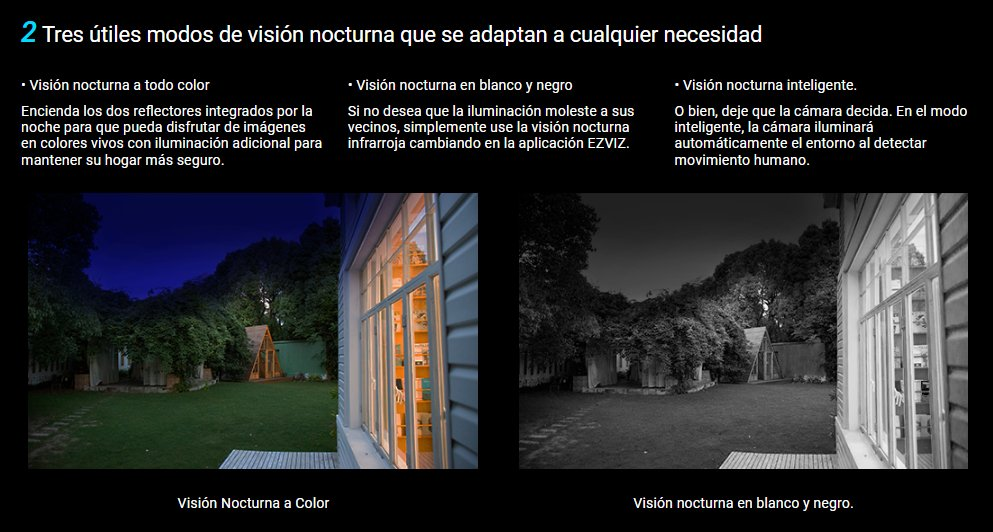
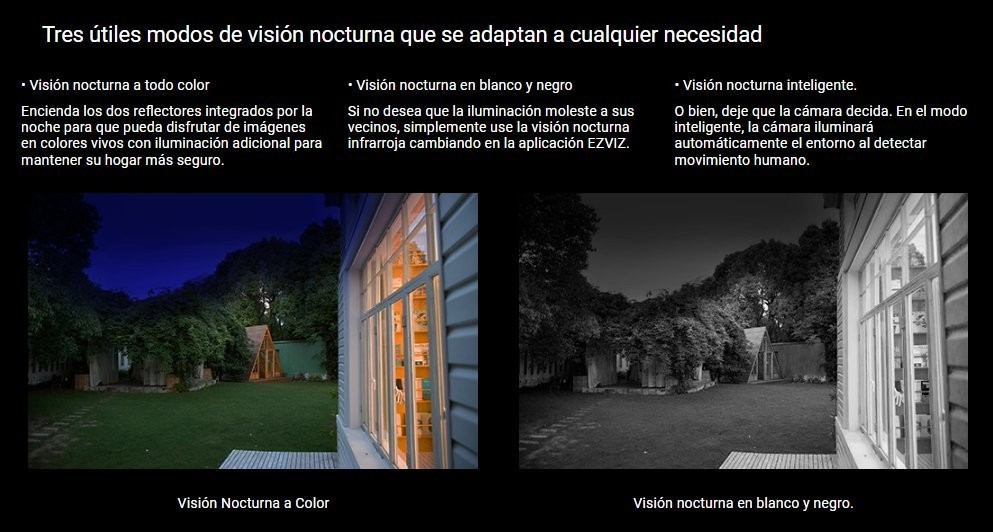
Add HiLook mini camera, CCTV accessories, second DVR, and fix nightvision image
- New "Accesorios CCTV" category: video balun, 12V power supply, male/
  female DC connectors, and a weatherproof junction box (TECLAM)
- New camera: HiLook THC-B127-LPTS 2MP mini tube with two-way audio,
  with its own ficha técnica listing the accessories above
- New DVR: Hikvision AcuSense 16-channel 4K (iDS-7216HUHI-M2/XT)
- Price added for WD Purple 1TB
- Removed the leftover blue "2" slide-number badge from the EZVIZ
  H8c 2K night vision demo image

Changed region(s): [[0.0, 0.0301, 0.0624, 0.0902], [0.4995, 0.0602, 0.5307, 0.0902], [0.0937, 0.0602, 0.1249, 0.0902]]

diff --git a/producto-thc-b127-lpts.html b/producto-thc-b127-lpts.html
@@ -1,0 +1,256 @@
+<!DOCTYPE html>
+<html lang="es">
+<head>
+<meta charset="UTF-8">
+<meta name="viewport" content="width=device-width, initial-scale=1">
+<title>Mini cámara tubo HiLook 2MP con audio — DM Seguridad Digital</title>
+<meta name="description" content="Mini cámara tubo HiLook THC-B127-LPTS 2MP con audio bidireccional. Cotiza por WhatsApp junto con los accesorios de instalación.">
+<link rel="icon" href="icon-dm-navy.png" type="image/png">
+<link rel="apple-touch-icon" href="apple-touch-icon.png">
+<meta name="theme-color" content="#192D3D">
+<link rel="stylesheet" href="https://fonts.googleapis.com/css2?family=Barlow+Semi+Condensed:wght@500;600;700;800&family=Public+Sans:wght@400;500;600;700&display=swap">
+<style>
+:root{
+  --ink:#192D3D;
+  --ink-soft:#4B5866;
+  --ink-faint:#7C8894;
+  --paper:#EEF0F2;
+  --sheet:#FFFFFF;
+  --line:#DDE1E4;
+  --brand-1:#0DCC30;
+  --brand-2:#FCFC00;
+  --accent:#0DCC30;
+  --whatsapp:#25D366;
+  --whatsapp-dark:#1DA851;
+}
+*{box-sizing:border-box;}
+html{scroll-behavior:smooth;}
+body{
+  margin:0;
+  background:var(--paper);
+  color:var(--ink);
+  font-family:'Public Sans', system-ui, -apple-system, Arial, sans-serif;
+  line-height:1.55;
+}
+h1,h2,h3{font-family:'Barlow Semi Condensed', system-ui, sans-serif; text-wrap:balance; margin:0;}
+a{color:inherit;}
+.wrap{max-width:1080px; margin:0 auto; padding:0 20px;}
+img{max-width:100%; display:block;}
+
+.nav{position:sticky; top:0; z-index:50; background:rgba(20,28,36,0.92); backdrop-filter:blur(6px); border-bottom:1px solid rgba(255,255,255,0.08);}
+.nav .wrap{display:flex; align-items:center; justify-content:space-between; padding:12px 20px;}
+.nav-brand{display:flex; align-items:center; gap:10px;}
+.nav-brand img{height:34px; width:auto;}
+.nav-links{display:flex; align-items:center; gap:22px;}
+.nav-links a{color:#C9D0D6; text-decoration:none; font-size:13.5px; font-weight:600;}
+.nav-links a:hover{color:#fff;}
+.nav .btn-wa{display:inline-flex; align-items:center; gap:7px; background:var(--whatsapp); color:#fff; padding:9px 16px; border-radius:999px; font-size:13px; font-weight:700; text-decoration:none; white-space:nowrap;}
+.nav .btn-wa:hover{background:var(--whatsapp-dark);}
+@media (max-width:720px){ .nav-links a:not(.btn-wa){display:none;} }
+
+.page-head{background:radial-gradient(circle at 20% 0%, #22394B 0%, var(--ink) 55%); color:#fff; padding:40px 0 32px; position:relative;}
+.page-head::after{content:""; position:absolute; left:0; right:0; bottom:0; height:5px; background:linear-gradient(90deg, var(--brand-1), var(--brand-2));}
+.back-link{display:inline-block; font-size:13px; font-weight:600; color:#fff; text-decoration:none; opacity:.85;}
+.back-link:hover{opacity:1; text-decoration:underline;}
+
+.section{padding:44px 0 70px;}
+
+.product-hero{display:grid; grid-template-columns:1fr 1fr; gap:36px; align-items:start;}
+@media (max-width:780px){.product-hero{grid-template-columns:1fr;}}
+.product-photo{position:relative; background:#fff; border:1px solid var(--line); border-radius:16px; aspect-ratio:4/3; display:flex; align-items:center; justify-content:center; overflow:hidden;}
+.product-photo img{width:100%; height:100%; object-fit:cover;}
+.badge-new{position:absolute; top:14px; left:14px; z-index:2; background:linear-gradient(90deg, var(--brand-1), var(--brand-2)); color:#0F1611; font-size:12.5px; font-weight:800; letter-spacing:.05em; text-transform:uppercase; padding:6px 14px; border-radius:999px; box-shadow:0 3px 10px rgba(0,0,0,0.3);}
+.product-info .sku{display:inline-block; font-family:ui-monospace,'IBM Plex Mono',monospace; font-size:11px; font-weight:700; letter-spacing:.04em; color:var(--accent); background:var(--sheet); border:1px solid var(--line); border-radius:6px; padding:4px 9px; margin-bottom:12px;}
+.product-info h1{font-size:clamp(24px,3.4vw,32px); font-weight:700; margin-bottom:10px;}
+.product-info .price{font-size:30px; font-weight:800; color:var(--ink); margin-bottom:14px;}
+.product-info p{color:var(--ink-soft); font-size:15px; margin-bottom:22px;}
+.btn-cotizar{display:inline-flex; align-items:center; gap:9px; background:var(--whatsapp); color:#fff; padding:14px 26px; border-radius:10px; font-weight:700; font-size:15px; text-decoration:none;}
+.btn-cotizar:hover{background:var(--whatsapp-dark);}
+
+.accessories{margin-top:64px;}
+.accessories h2{font-size:clamp(20px,2.8vw,26px); font-weight:700; margin-bottom:6px;}
+.accessories .sub{color:var(--ink-faint); font-size:14px; margin-bottom:24px;}
+.prod-grid{display:grid; grid-template-columns:repeat(3,1fr); gap:18px;}
+@media (max-width:860px){.prod-grid{grid-template-columns:repeat(2,1fr);}}
+@media (max-width:560px){.prod-grid{grid-template-columns:1fr;}}
+.prod-card .price{font-size:17px; font-weight:800; color:var(--ink); font-family:'Barlow Semi Condensed',sans-serif;}
+.specs{list-style:none; padding:0; margin:0 0 24px; display:grid; gap:8px;}
+.specs li{font-size:14px; color:var(--ink-soft); padding-left:22px; position:relative;}
+.specs li::before{content:"✓"; position:absolute; left:0; color:var(--accent); font-weight:800;}
+.prod-card{background:var(--sheet); border:1px solid var(--line); border-radius:14px; overflow:hidden; display:flex; flex-direction:column;}
+.prod-photo{aspect-ratio:4/3; background:#fff; display:flex; align-items:center; justify-content:center; overflow:hidden; border-bottom:1px solid var(--line);}
+.prod-photo img{width:100%; height:100%; object-fit:cover;}
+.prod-body{padding:16px 18px 18px; display:flex; flex-direction:column; gap:8px; flex:1;}
+.prod-card .sku{align-self:flex-start; font-family:ui-monospace,'IBM Plex Mono',monospace; font-size:10.5px; font-weight:700; letter-spacing:.04em; color:var(--accent); background:var(--paper); border:1px solid var(--line); border-radius:6px; padding:3px 8px;}
+.prod-card h3{font-size:15.5px; font-weight:600;}
+.prod-card p{font-size:12.5px; color:var(--ink-faint); flex:1; margin:0;}
+.prod-card a{font-size:12.5px; font-weight:700; color:var(--whatsapp-dark); text-decoration:none;}
+.prod-card a:hover{text-decoration:underline;}
+
+footer{background:var(--ink); color:#9AA5AC; padding:36px 0 28px; font-size:12.5px;}
+.foot-grid{display:flex; justify-content:space-between; align-items:center; flex-wrap:wrap; gap:16px; padding-bottom:18px; border-bottom:1px solid rgba(255,255,255,0.1); margin-bottom:16px;}
+.foot-brand img{height:30px;}
+
+.wa-float{position:fixed; right:18px; bottom:18px; z-index:80; background:var(--whatsapp); color:#fff; width:58px; height:58px; border-radius:50%; display:flex; align-items:center; justify-content:center; text-decoration:none; box-shadow:0 8px 24px rgba(0,0,0,0.3); font-size:28px;}
+.wa-float:hover{background:var(--whatsapp-dark);}
+</style>
+</head>
+<body>
+
+<nav class="nav">
+  <div class="wrap">
+    <div class="nav-brand">
+      <a href="index.html"><img src="logo-dark.png" alt="DM Seguridad Digital"></a>
+    </div>
+    <div class="nav-links">
+      <a href="index.html#servicios">Servicios</a>
+      <a href="index.html#trabajos">Trabajos realizados</a>
+      <a href="index.html">Inicio</a>
+      <a class="btn-wa" id="waNav" href="#" target="_blank" rel="noopener">💬 WhatsApp</a>
+    </div>
+  </div>
+</nav>
+
+<header class="page-head">
+  <div class="wrap">
+    <a class="back-link" id="backLink" href="catalogo.html">← Volver al catálogo</a>
+  </div>
+</header>
+
+<section class="section">
+  <div class="wrap">
+
+    <div class="product-hero">
+      <div class="product-photo">
+        <span class="badge-new">Nuevo</span>
+        <img src="products/hilook-thc-b127-lpts.jpg" alt="Mini cámara tubo HiLook THC-B127-LPTS 2MP con audio bidireccional">
+      </div>
+      <div class="product-info">
+        <div class="sku">DMS-CCTV-002</div>
+        <h1>Mini cámara tubo HiLook 2MP con audio bidireccional</h1>
+        <div class="price">$26.64</div>
+        <p>Cámara fija Full HD (THC-B127-LPTS) con micrófono y parlante integrados: escucha y habla en tiempo real desde el grabador o la app.</p>
+        <ul class="specs">
+          <li>Resolución 2MP (1920 × 1080)</li>
+          <li>Audio bidireccional: micrófono y parlante de 2 W, alcance hasta 5 m</li>
+          <li>Luz híbrida inteligente: infrarrojo hasta 25 m y luz blanca hasta 20 m</li>
+          <li>Resistente al agua y polvo (IP67), apta para exteriores</li>
+          <li>Audio por cable coaxial, compatible con DVR Turbo HD</li>
+        </ul>
+        <a class="btn-cotizar wa-link" data-msg="Hola, quiero cotizar la mini cámara tubo HiLook 2MP con audio bidireccional THC-B127-LPTS (DMS-CCTV-002).">💬 Cotizar por WhatsApp</a>
+      </div>
+    </div>
+
+    <div class="accessories">
+      <h2>Accesorios para la instalación</h2>
+      <div class="sub">Cada cámara necesita estos accesorios para quedar conectada y protegida.</div>
+      <div class="prod-grid">
+
+        <div class="prod-card">
+          <div class="prod-photo"><img src="products/teclam-jr-cf903.png" alt="Pareja de video balun TECLAM 5MP"></div>
+          <div class="prod-body">
+            <div class="sku">DMS-ACV-001</div>
+            <h3>Pareja de video balun TECLAM 5MP</h3>
+            <div class="price">$2.22</div>
+            <p>Transmite el video de la cámara por cable UTP, compatible con AHD, TVI, CVI y CVBS hasta 5MP.</p>
+            <a class="wa-link" data-msg="Hola, quiero cotizar la pareja de video balun TECLAM 5MP (DMS-ACV-001).">Cotizar →</a>
+          </div>
+        </div>
+
+        <div class="prod-card">
+          <div class="prod-photo"><img src="products/teclam-ht1000-d.png" alt="Fuente de poder TECLAM 12V 1A"></div>
+          <div class="prod-body">
+            <div class="sku">DMS-ACV-002</div>
+            <h3>Fuente de poder 12V 1A TECLAM</h3>
+            <div class="price">$3.49</div>
+            <p>Fuente regulada de 12V a 1A con cable 24AWG, para alimentar una cámara.</p>
+            <a class="wa-link" data-msg="Hola, quiero cotizar la fuente de poder 12V 1A TECLAM (DMS-ACV-002).">Cotizar →</a>
+          </div>
+        </div>
+
+        <div class="prod-card">
+          <div class="prod-photo"><img src="products/teclam-jr-52.png" alt="Bornera macho TECLAM"></div>
+          <div class="prod-body">
+            <div class="sku">DMS-ACV-003</div>
+            <h3>Bornera macho TECLAM</h3>
+            <div class="price">$0.27</div>
+            <p>Conector de alimentación DC macho con terminales de tornillo, sin necesidad de soldar.</p>
+            <a class="wa-link" data-msg="Hola, quiero cotizar la bornera macho TECLAM (DMS-ACV-003).">Cotizar →</a>
+          </div>
+        </div>
+
+        <div class="prod-card">
+          <div class="prod-photo"><img src="products/teclam-jr-53.png" alt="Bornera hembra TECLAM"></div>
+          <div class="prod-body">
+            <div class="sku">DMS-ACV-004</div>
+            <h3>Bornera hembra TECLAM</h3>
+            <div class="price">$0.29</div>
+            <p>Conector de alimentación DC hembra con terminales de tornillo, sin necesidad de soldar.</p>
+            <a class="wa-link" data-msg="Hola, quiero cotizar la bornera hembra TECLAM (DMS-ACV-004).">Cotizar →</a>
+          </div>
+        </div>
+
+        <div class="prod-card">
+          <div class="prod-photo"><img src="products/teclam-chp10x10.jpg" alt="Caja hermética blanca 10x10x7 TECLAM"></div>
+          <div class="prod-body">
+            <div class="sku">DMS-ACV-005</div>
+            <h3>Caja hermética 10x10x7 blanca</h3>
+            <div class="price">$1.61</div>
+            <p>Caja de paso sellada contra agua y polvo, protege las conexiones de la cámara en exteriores.</p>
+            <a class="wa-link" data-msg="Hola, quiero cotizar la caja hermética 10x10x7 blanca (DMS-ACV-005).">Cotizar →</a>
+          </div>
+        </div>
+
+      </div>
+    </div>
+
+  </div>
+</section>
+
+<footer>
+  <div class="wrap">
+    <div class="foot-grid">
+      <div class="foot-brand">
+        <img src="logo-dark.png" alt="DM Seguridad Digital">
+      </div>
+      <div id="waFooterText"></div>
+    </div>
+    <div>© <span id="year"></span> DM Seguridad Digital. Todos los derechos reservados.</div>
+  </div>
+</footer>
+
+<a class="wa-float" id="waFloat" href="#" target="_blank" rel="noopener" aria-label="Escribir por WhatsApp">💬</a>
+
+<script>
+  const WHATSAPP_NUMBER = '593980781862';
+  const DEFAULT_MSG = 'Hola, quiero información sobre sus equipos.';
+
+  function waLink(msg){
+    return `https://wa.me/${WHATSAPP_NUMBER}?text=${encodeURIComponent(msg)}`;
+  }
+
+  document.querySelectorAll('.wa-link').forEach(a=>{
+    a.href = waLink(a.dataset.msg || DEFAULT_MSG);
+    a.target = '_blank';
+    a.rel = 'noopener';
+  });
+  const waNav = document.getElementById('waNav');
+  if(waNav) waNav.href = waLink(DEFAULT_MSG);
+  const waFloat = document.getElementById('waFloat');
+  if(waFloat) waFloat.href = waLink(DEFAULT_MSG);
+  document.getElementById('waFooterText').textContent = 'WhatsApp: +593 98 078 1862';
+  document.getElementById('year').textContent = new Date().getFullYear();
+
+  const backLink = document.getElementById('backLink');
+  if (backLink) {
+    backLink.addEventListener('click', function(e){
+      if (window.history.length > 1) {
+        e.preventDefault();
+        window.history.back();
+      }
+    });
+  }
+</script>
+
+</body>
+</html>

diff --git a/catalogo.html b/catalogo.html
@@ -118,6 +118,7 @@ footer{background:var(--ink); color:#9AA5AC; padding:36px 0 28px; font-size:12.5
       <button class="prod-filter active" data-cat="todos">Todos</button>
       <button class="prod-filter" data-cat="cctv">CCTV</button>
       <button class="prod-filter" data-cat="grabadores">Grabadores</button>
+      <button class="prod-filter" data-cat="accesorios">Accesorios CCTV</button>
       <button class="prod-filter" data-cat="ezviz">Ezviz</button>
       <button class="prod-filter" data-cat="videoporteros">Videoporteros</button>
       <button class="prod-filter" data-cat="acceso">Control de Acceso</button>
@@ -142,6 +143,73 @@ footer{background:var(--ink); color:#9AA5AC; padding:36px 0 28px; font-size:12.5
         </div>
       </div>
 
+      <div class="prod-card" data-cat="cctv">
+        <a href="producto-thc-b127-lpts.html"><div class="prod-photo"><img src="products/hilook-thc-b127-lpts.jpg" alt="Mini cámara tubo HiLook THC-B127-LPTS 2MP con audio bidireccional"></div></a>
+        <div class="prod-body">
+          <div class="sku">DMS-CCTV-002</div>
+          <h3><a href="producto-thc-b127-lpts.html" style="text-decoration:none; color:inherit;">Mini cámara tubo HiLook 2MP con audio bidireccional</a></h3>
+          <div class="price">$26.64</div>
+          <p>Cámara fija Full HD con micrófono y parlante integrados para hablar en tiempo real, luz híbrida inteligente y protección IP67.</p>
+          <a href="producto-thc-b127-lpts.html" style="font-size:12.5px; font-weight:700; color:var(--ink-soft); text-decoration:none;">Ver producto y accesorios →</a>
+          <a class="wa-link" data-msg="Hola, quiero cotizar la mini cámara tubo HiLook 2MP con audio bidireccional THC-B127-LPTS (DMS-CCTV-002).">Cotizar →</a>
+        </div>
+      </div>
+
+      <div class="prod-card" data-cat="accesorios">
+        <div class="prod-photo"><img src="products/teclam-jr-cf903.png" alt="Pareja de video balun TECLAM 5MP"></div>
+        <div class="prod-body">
+          <div class="sku">DMS-ACV-001</div>
+          <h3>Pareja de video balun TECLAM 5MP</h3>
+          <div class="price">$2.22</div>
+          <p>Transmite el video de la cámara por cable UTP, compatible con AHD, TVI, CVI y CVBS hasta 5MP.</p>
+          <a class="wa-link" data-msg="Hola, quiero cotizar la pareja de video balun TECLAM 5MP (DMS-ACV-001).">Cotizar →</a>
+        </div>
+      </div>
+
+      <div class="prod-card" data-cat="accesorios">
+        <div class="prod-photo"><img src="products/teclam-ht1000-d.png" alt="Fuente de poder TECLAM 12V 1A"></div>
+        <div class="prod-body">
+          <div class="sku">DMS-ACV-002</div>
+          <h3>Fuente de poder 12V 1A TECLAM</h3>
+          <div class="price">$3.49</div>
+          <p>Fuente regulada de 12V a 1A con cable 24AWG, para alimentar una cámara.</p>
+          <a class="wa-link" data-msg="Hola, quiero cotizar la fuente de poder 12V 1A TECLAM (DMS-ACV-002).">Cotizar →</a>
+        </div>
+      </div>
+
+      <div class="prod-card" data-cat="accesorios">
+        <div class="prod-photo"><img src="products/teclam-jr-52.png" alt="Bornera macho TECLAM"></div>
+        <div class="prod-body">
+          <div class="sku">DMS-ACV-003</div>
+          <h3>Bornera macho TECLAM</h3>
+          <div class="price">$0.27</div>
+          <p>Conector de alimentación DC macho con terminales de tornillo, sin necesidad de soldar.</p>
+          <a class="wa-link" data-msg="Hola, quiero cotizar la bornera macho TECLAM (DMS-ACV-003).">Cotizar →</a>
+        </div>
+      </div>
+
+      <div class="prod-card" data-cat="accesorios">
+        <div class="prod-photo"><img src="products/teclam-jr-53.png" alt="Bornera hembra TECLAM"></div>
+        <div class="prod-body">
+          <div class="sku">DMS-ACV-004</div>
+          <h3>Bornera hembra TECLAM</h3>
+          <div class="price">$0.29</div>
+          <p>Conector de alimentación DC hembra con terminales de tornillo, sin necesidad de soldar.</p>
+          <a class="wa-link" data-msg="Hola, quiero cotizar la bornera hembra TECLAM (DMS-ACV-004).">Cotizar →</a>
+        </div>
+      </div>
+
+      <div class="prod-card" data-cat="accesorios">
+        <div class="prod-photo"><img src="products/teclam-chp10x10.jpg" alt="Caja hermética blanca 10x10x7 TECLAM"></div>
+        <div class="prod-body">
+          <div class="sku">DMS-ACV-005</div>
+          <h3>Caja hermética 10x10x7 blanca</h3>
+          <div class="price">$1.61</div>
+          <p>Caja de paso sellada contra agua y polvo, protege las conexiones de la cámara en exteriores.</p>
+          <a class="wa-link" data-msg="Hola, quiero cotizar la caja hermética 10x10x7 blanca (DMS-ACV-005).">Cotizar →</a>
+        </div>
+      </div>
+
       <div class="prod-card" data-cat="grabadores">
         <div class="prod-photo"><img src="products/hilook-dvr-208q-m1.png" alt="DVR HiLook 8 canales + 4 IP hasta 6MP"></div>
         <div class="prod-body">
@@ -161,6 +229,17 @@ footer{background:var(--ink); color:#9AA5AC; padding:36px 0 28px; font-size:12.5
           <div class="price">$128.29</div>
           <p>Grabador de 16 canales, ideal para instalaciones medianas con múltiples cámaras analógicas.</p>
           <a class="wa-link" data-msg="Hola, quiero cotizar el DVR HiLook 16 canales 720P-1080P Lite (DMS-DVR-002).">Cotizar →</a>
+        </div>
+      </div>
+
+      <div class="prod-card" data-cat="grabadores">
+        <div class="prod-photo"><img src="products/hik-ids-7216huhi-m2-xt.jpg" alt="DVR Hikvision AcuSense 16 canales 4K iDS-7216HUHI-M2/XT"></div>
+        <div class="prod-body">
+          <div class="sku">DMS-DVR-003</div>
+          <h3>DVR Hikvision AcuSense 16 canales 4K</h3>
+          <div class="price">$569.13</div>
+          <p>Grabador Turbo HD de 16 canales con IA AcuSense: detecta personas y vehículos para reducir falsas alarmas. Soporta 2 discos duros.</p>
+          <a class="wa-link" data-msg="Hola, quiero cotizar el DVR Hikvision AcuSense 16 canales 4K iDS-7216HUHI-M2/XT (DMS-DVR-003).">Cotizar →</a>
         </div>
       </div>
 
@@ -469,6 +548,7 @@ footer{background:var(--ink); color:#9AA5AC; padding:36px 0 28px; font-size:12.5
         <div class="prod-body">
           <div class="sku">DMS-HDD-001</div>
           <h3>Disco duro WD Purple 1TB</h3>
+          <div class="price">$164.94</div>
           <p>Disco duro especializado para videovigilancia 24/7, compatible con DVR y NVR.</p>
           <a class="wa-link" data-msg="Hola, quiero cotizar un disco duro WD Purple 1TB (DMS-HDD-001).">Cotizar →</a>
         </div>
